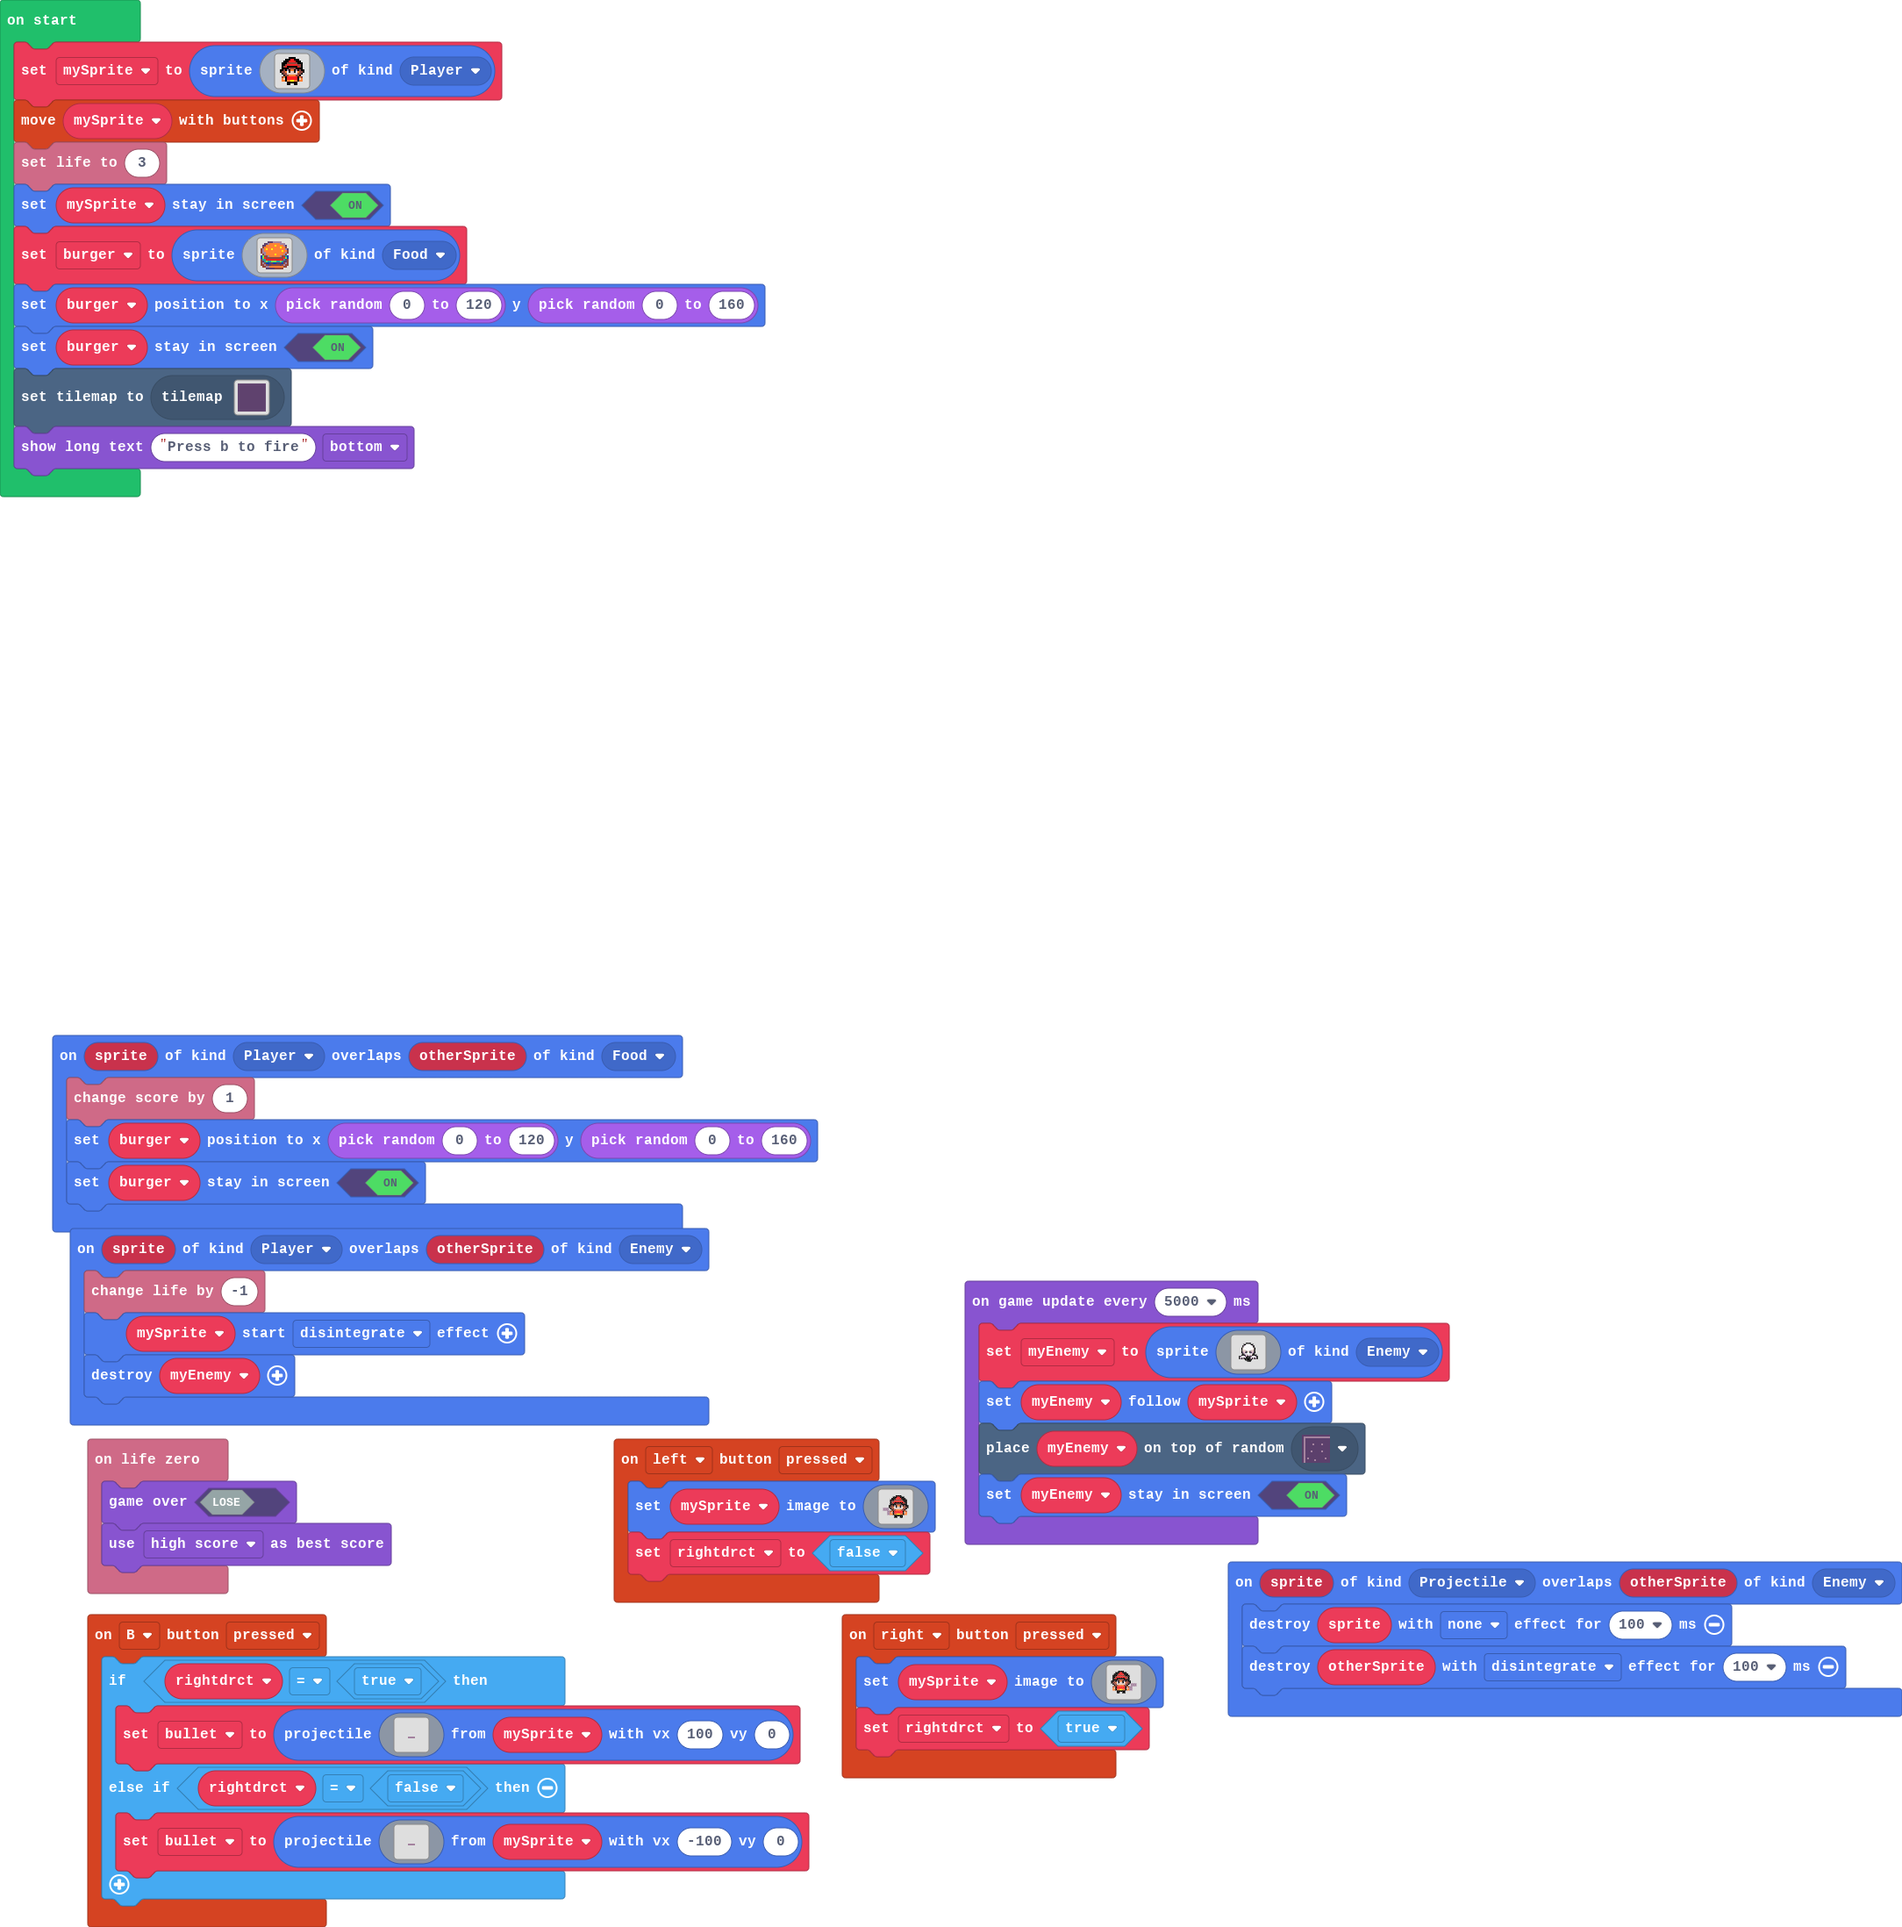
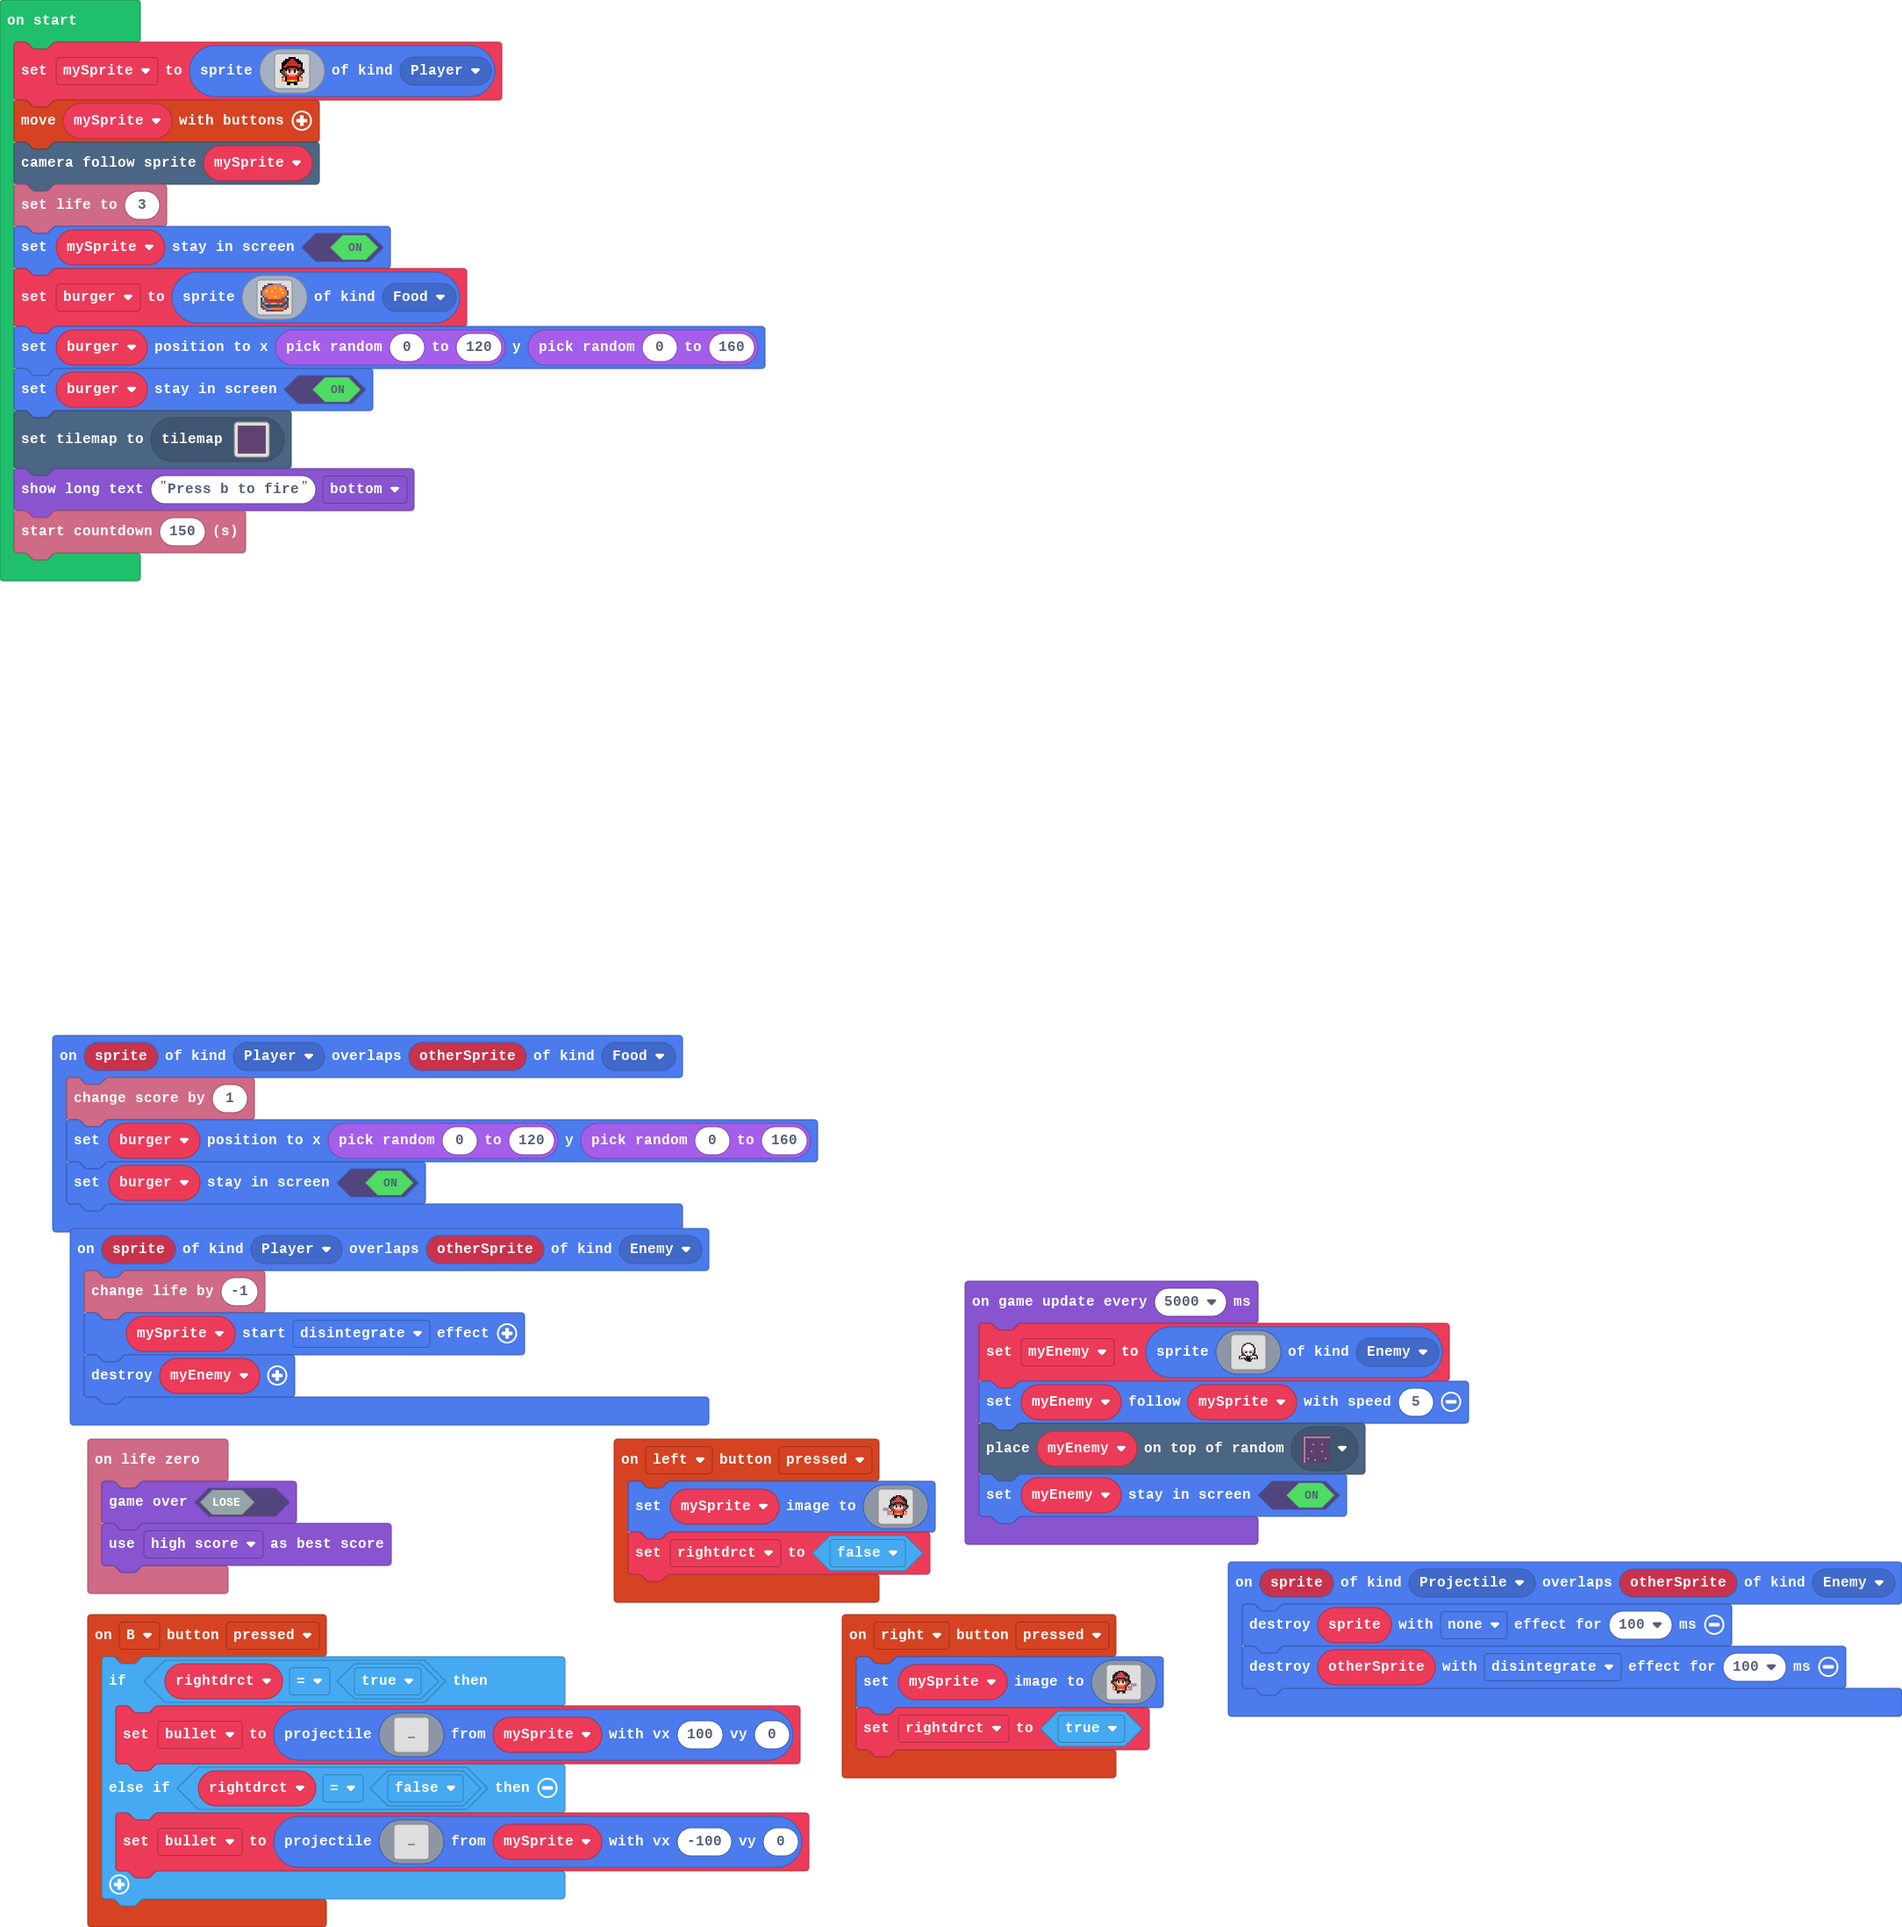
Update main.blocks, main.ts, tilemap.g.ts

Changed region(s): [[0.0, 0.0619, 0.4018, 0.3097], [0.6799, 0.7122, 0.7726, 0.7432]]

diff --git a/tilemap.g.ts b/tilemap.g.ts
@@ -62,6 +62,25 @@ namespace myTiles {
 . . . . . . . . . . . . . . . . 
 . . . . . . . . . . . . . . . . 
 `, [myTiles.transparency16], TileScale.Sixteen);
+            case "level4":
+            case "level4":return tiles.createTilemap(hex`1000100000000000000000000000000000000000000000000000000000000000000000000000000000000000000000000000000000000000000000000000000000000000000000000000000000000000000000000000000000000000000000000000000000000000000000000000000000000000000000000000000000000000000000000000000000000000000000000000000000000000000000000000000000000000000000000000000000000000000000000000000000000000000000000000000000000000000000000000000000000000000000000000000000000000000000000000000000000000000000000000000000000000000000000000000000000000`, img`
+. . . . . . . . . . . . . . . . 
+. . . . . . . . . . . . . . . . 
+. . . . . . . . . . . . . . . . 
+. . . . . . . . . . . . . . . . 
+. . . . . . . . . . . . . . . . 
+. . . . . . . . . . . . . . . . 
+. . . . . . . . . . . . . . . . 
+. . . . . . . . . . . . . . . . 
+. . . . . . . . . . . . . . . . 
+. . . . . . . . . . . . . . . . 
+. . . . . . . . . . . . . . . . 
+. . . . . . . . . . . . . . . . 
+. . . . . . . . . . . . . . . . 
+. . . . . . . . . . . . . . . . 
+. . . . . . . . . . . . . . . . 
+. . . . . . . . . . . . . . . . 
+`, [myTiles.transparency16], TileScale.Sixteen);
         }
         return null;
     })

diff --git a/main.ts b/main.ts
@@ -123,6 +123,7 @@ mySprite = sprites.create(img`
     . . . . . f f . . f f . . . . . 
     `, SpriteKind.Player)
 controller.moveSprite(mySprite)
+scene.cameraFollowSprite(mySprite)
 info.setLife(3)
 mySprite.setStayInScreen(true)
 burger = sprites.create(img`
@@ -147,6 +148,7 @@ burger.setPosition(randint(0, 120), randint(0, 160))
 burger.setStayInScreen(true)
 tiles.setCurrentTilemap(tilemap`level1`)
 game.showLongText("Press b to fire", DialogLayout.Bottom)
+info.startCountdown(150)
 game.onUpdateInterval(5000, function () {
     myEnemy = sprites.create(img`
         ........................
@@ -174,7 +176,7 @@ game.onUpdateInterval(5000, function () {
         ........................
         ........................
         `, SpriteKind.Enemy)
-    myEnemy.follow(mySprite)
+    myEnemy.follow(mySprite, 5)
     tiles.placeOnRandomTile(myEnemy, sprites.dungeon.darkGroundNorthWest0)
     myEnemy.setStayInScreen(true)
 })
